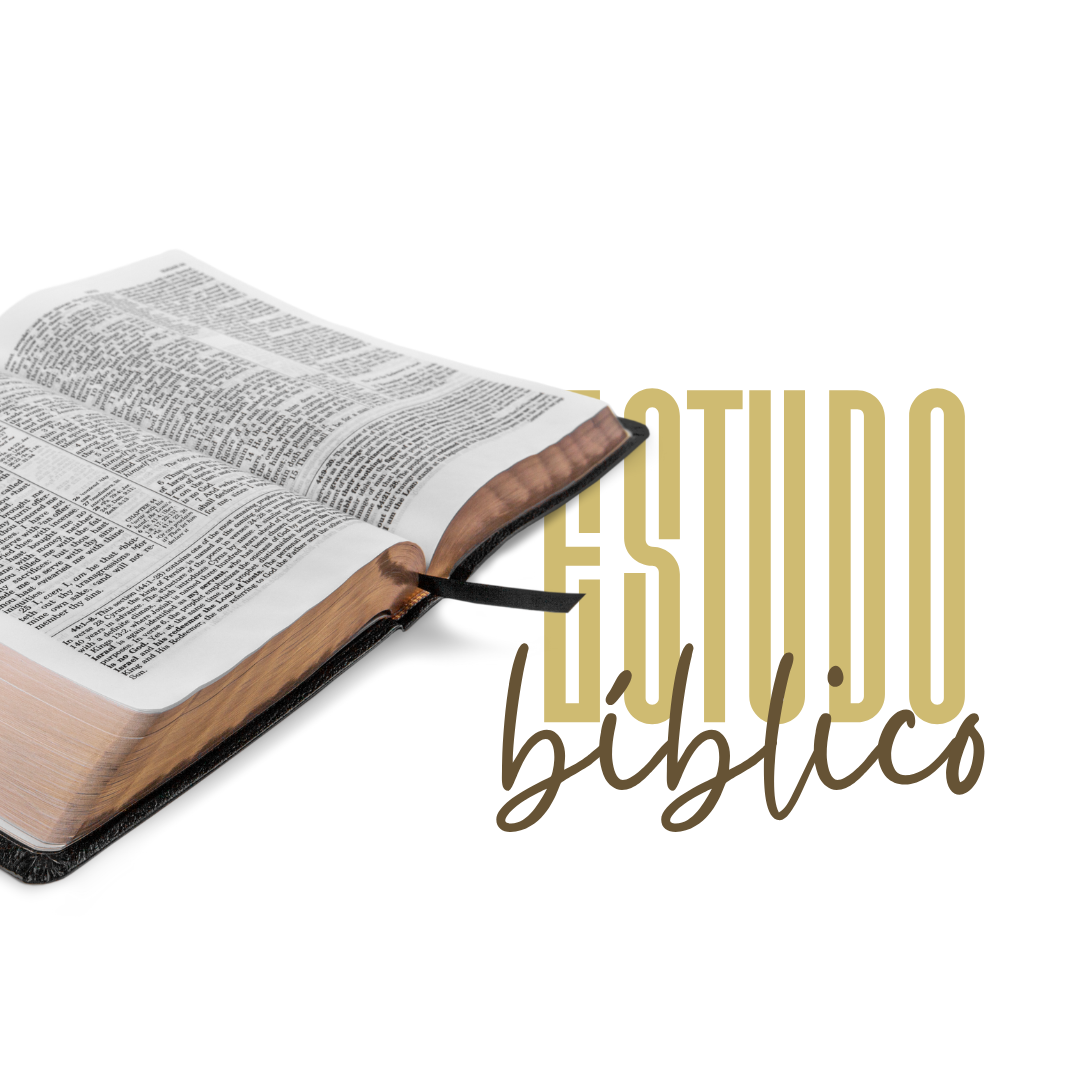
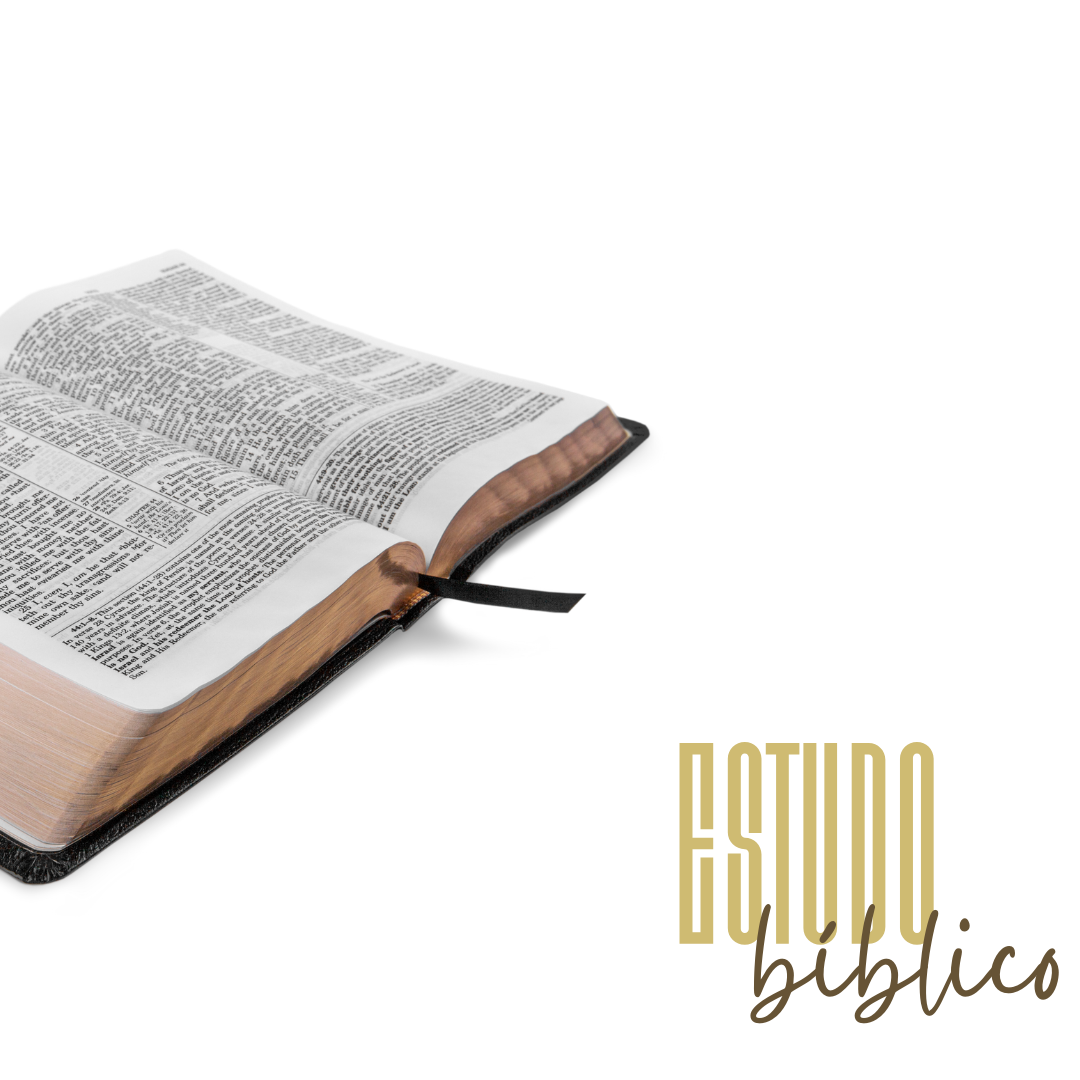
segundo commit 01-03-24
inicio co js

Changed region(s): [[0.4583, 0.3361, 0.9778, 0.9472], [0.5194, 0.3361, 0.55, 0.3667]]

diff --git a/stilo.css b/stilo.css
@@ -23,19 +23,22 @@ a {
 }
 
 body {
-    padding-top: 5vh; /*  view height -> 5% da tela */
+    padding-top: 7vh; /*  view height -> 5% da tela */
     background-image: url(img/5.png);
-    background-size: cover;
-    background-position-y: -550px;
+    background-size: 825px;
+    background-repeat: no-repeat;
+    background-position: left;
+    background-position-y: -5px;
 }
 
 /* form formulario */
 
 #main-container {
     width: 500px;
+    height: 500px;
     margin-left: auto;
     margin-right: auto;
-    background-color: rgba(212, 193, 100, 0.869);
+    background-color: #f5f5f5;
     border-radius: 10px;
     padding: 25px;
 }
@@ -44,4 +47,70 @@ body {
     text-align: center;
     margin-bottom: 25px;
     font-size: 1.6rem;
+}
+
+form {
+    display: flex;
+    flex-wrap: wrap;
+    justify-content: space-between;
+}
+
+.full-box {
+    flex: 1 1 100%;
+    position: relative;
+}
+
+.half-box {
+    flex: 1 1 45%;
+    position: relative;
+}
+
+.spacing {
+    margin-right: 2.5%;
+}
+
+label {
+    font-weight: bold;
+    font-size: .8rem;
+}
+
+input {
+    border-bottom: 2px solid #323232;
+    padding: 10px;
+    font-size: .9rem;
+    margin-bottom: 40px;
+}
+
+input:focus {
+    border-color: #be9749;
+}
+
+input[type="submit"] {
+    background-color: #be9749;
+    color: #f5f5f5;
+    border: none;
+    border-radius: 20px;
+    height: 40px;
+}
+
+#agreement {
+    margin-right: 5px;
+}
+
+#agreement, #agreement-label {
+    display: inline-block;
+    width: auto;
+
+}
+
+/* Validação */
+.error-validation {
+    color: #ff1a1a;
+    position: absolute;
+    top: 57px;
+    font-size: .8rem;
+}
+
+.template {
+    display: none;
 }

diff --git a/index.html b/index.html
@@ -14,7 +14,7 @@
                 <label for="email">E-mail</label>
                 <input type="email" name="email" id="email" placeholder="Digite seu E-mail">
             </div>
-            <div class="half-box">
+            <div class="half-box spacing">
                 <label for="name">Nome</label>
                 <input type="text" name="name" id="name" placeholder="Digite o seu nome">
             </div>
@@ -22,7 +22,7 @@
                 <label for="lastname">Sobrenome</label>
                 <input type="text" name="lastname" id="lastname" placeholder="Digite o seu sobrenome">
             </div>
-            <div class="half-box">
+            <div class="half-box spacing">
                 <label for="password">Senha</label>
                 <input type="password" name="password" id="password" placeholder="Digite a sua senha">
             </div>

diff --git a/cadastro.js b/cadastro.js
@@ -1,0 +1,11 @@
+let form = document.getElementById('register-form');
+let submit = document.getElementById('btn-submit');
+
+//evento que dispara as validaçoes
+submit.addEventListener('click', function(e) {
+
+    e.preventDefault();
+
+    console.log('funcionou');
+
+});
